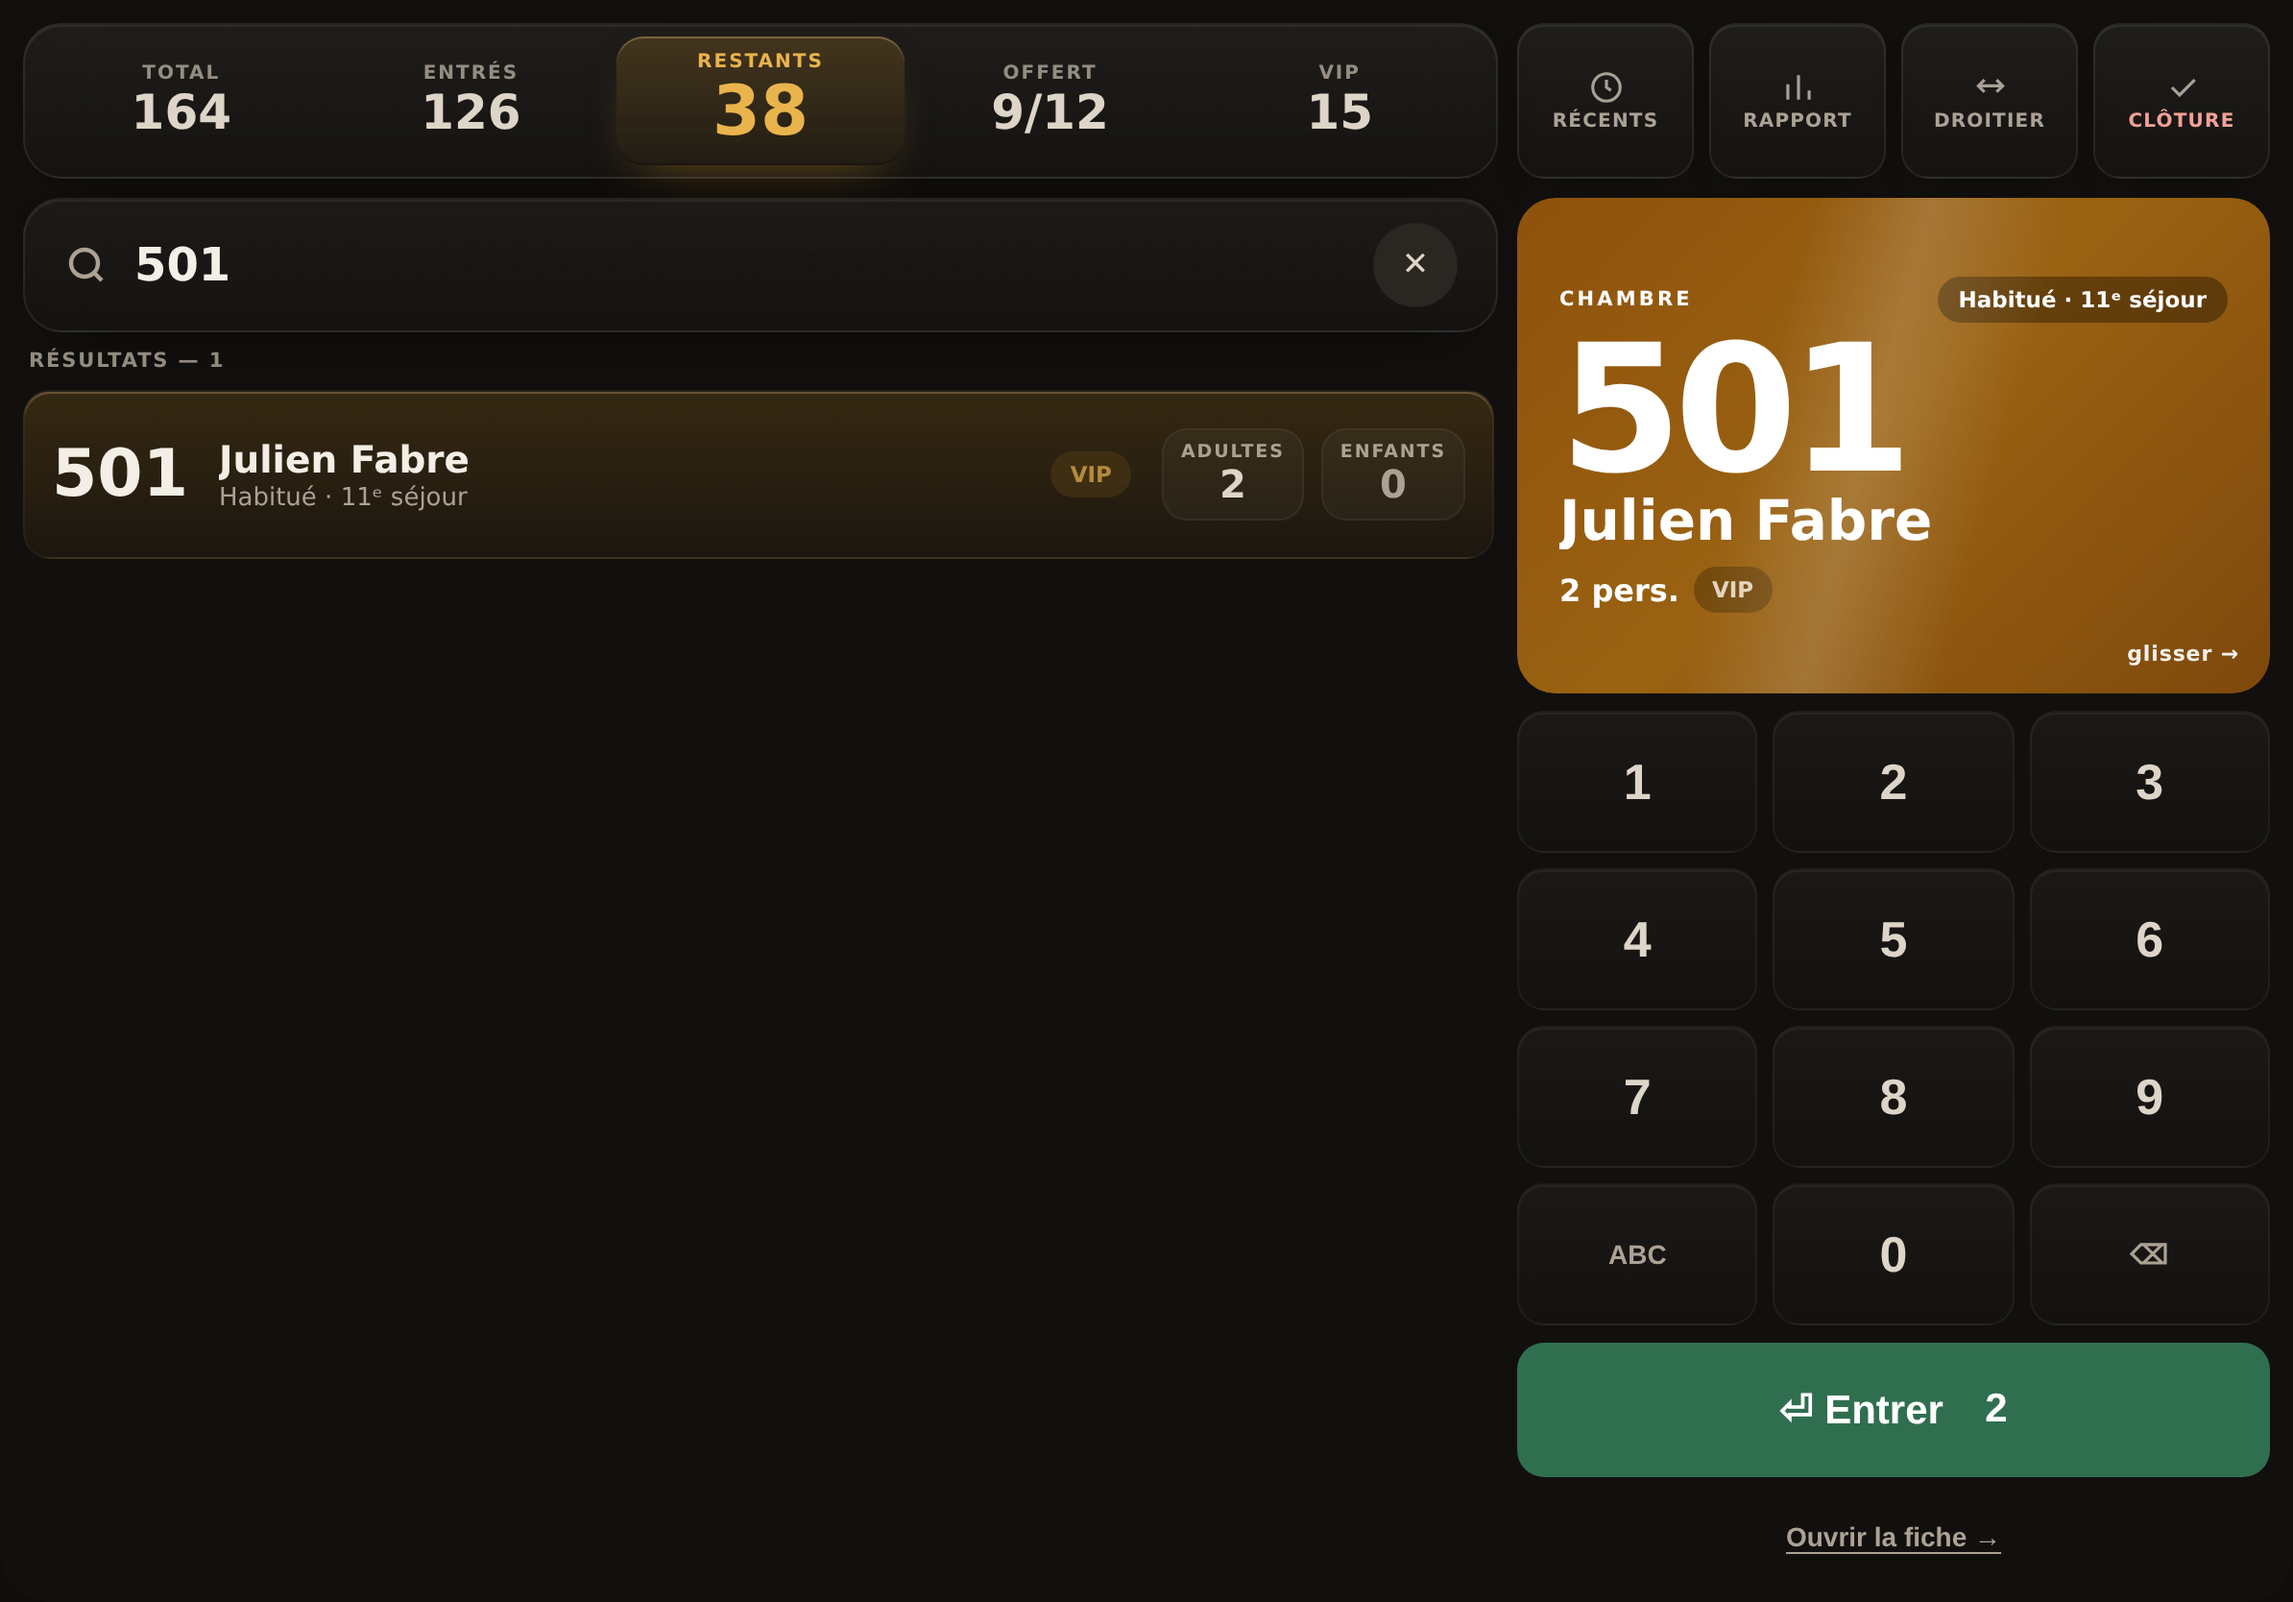
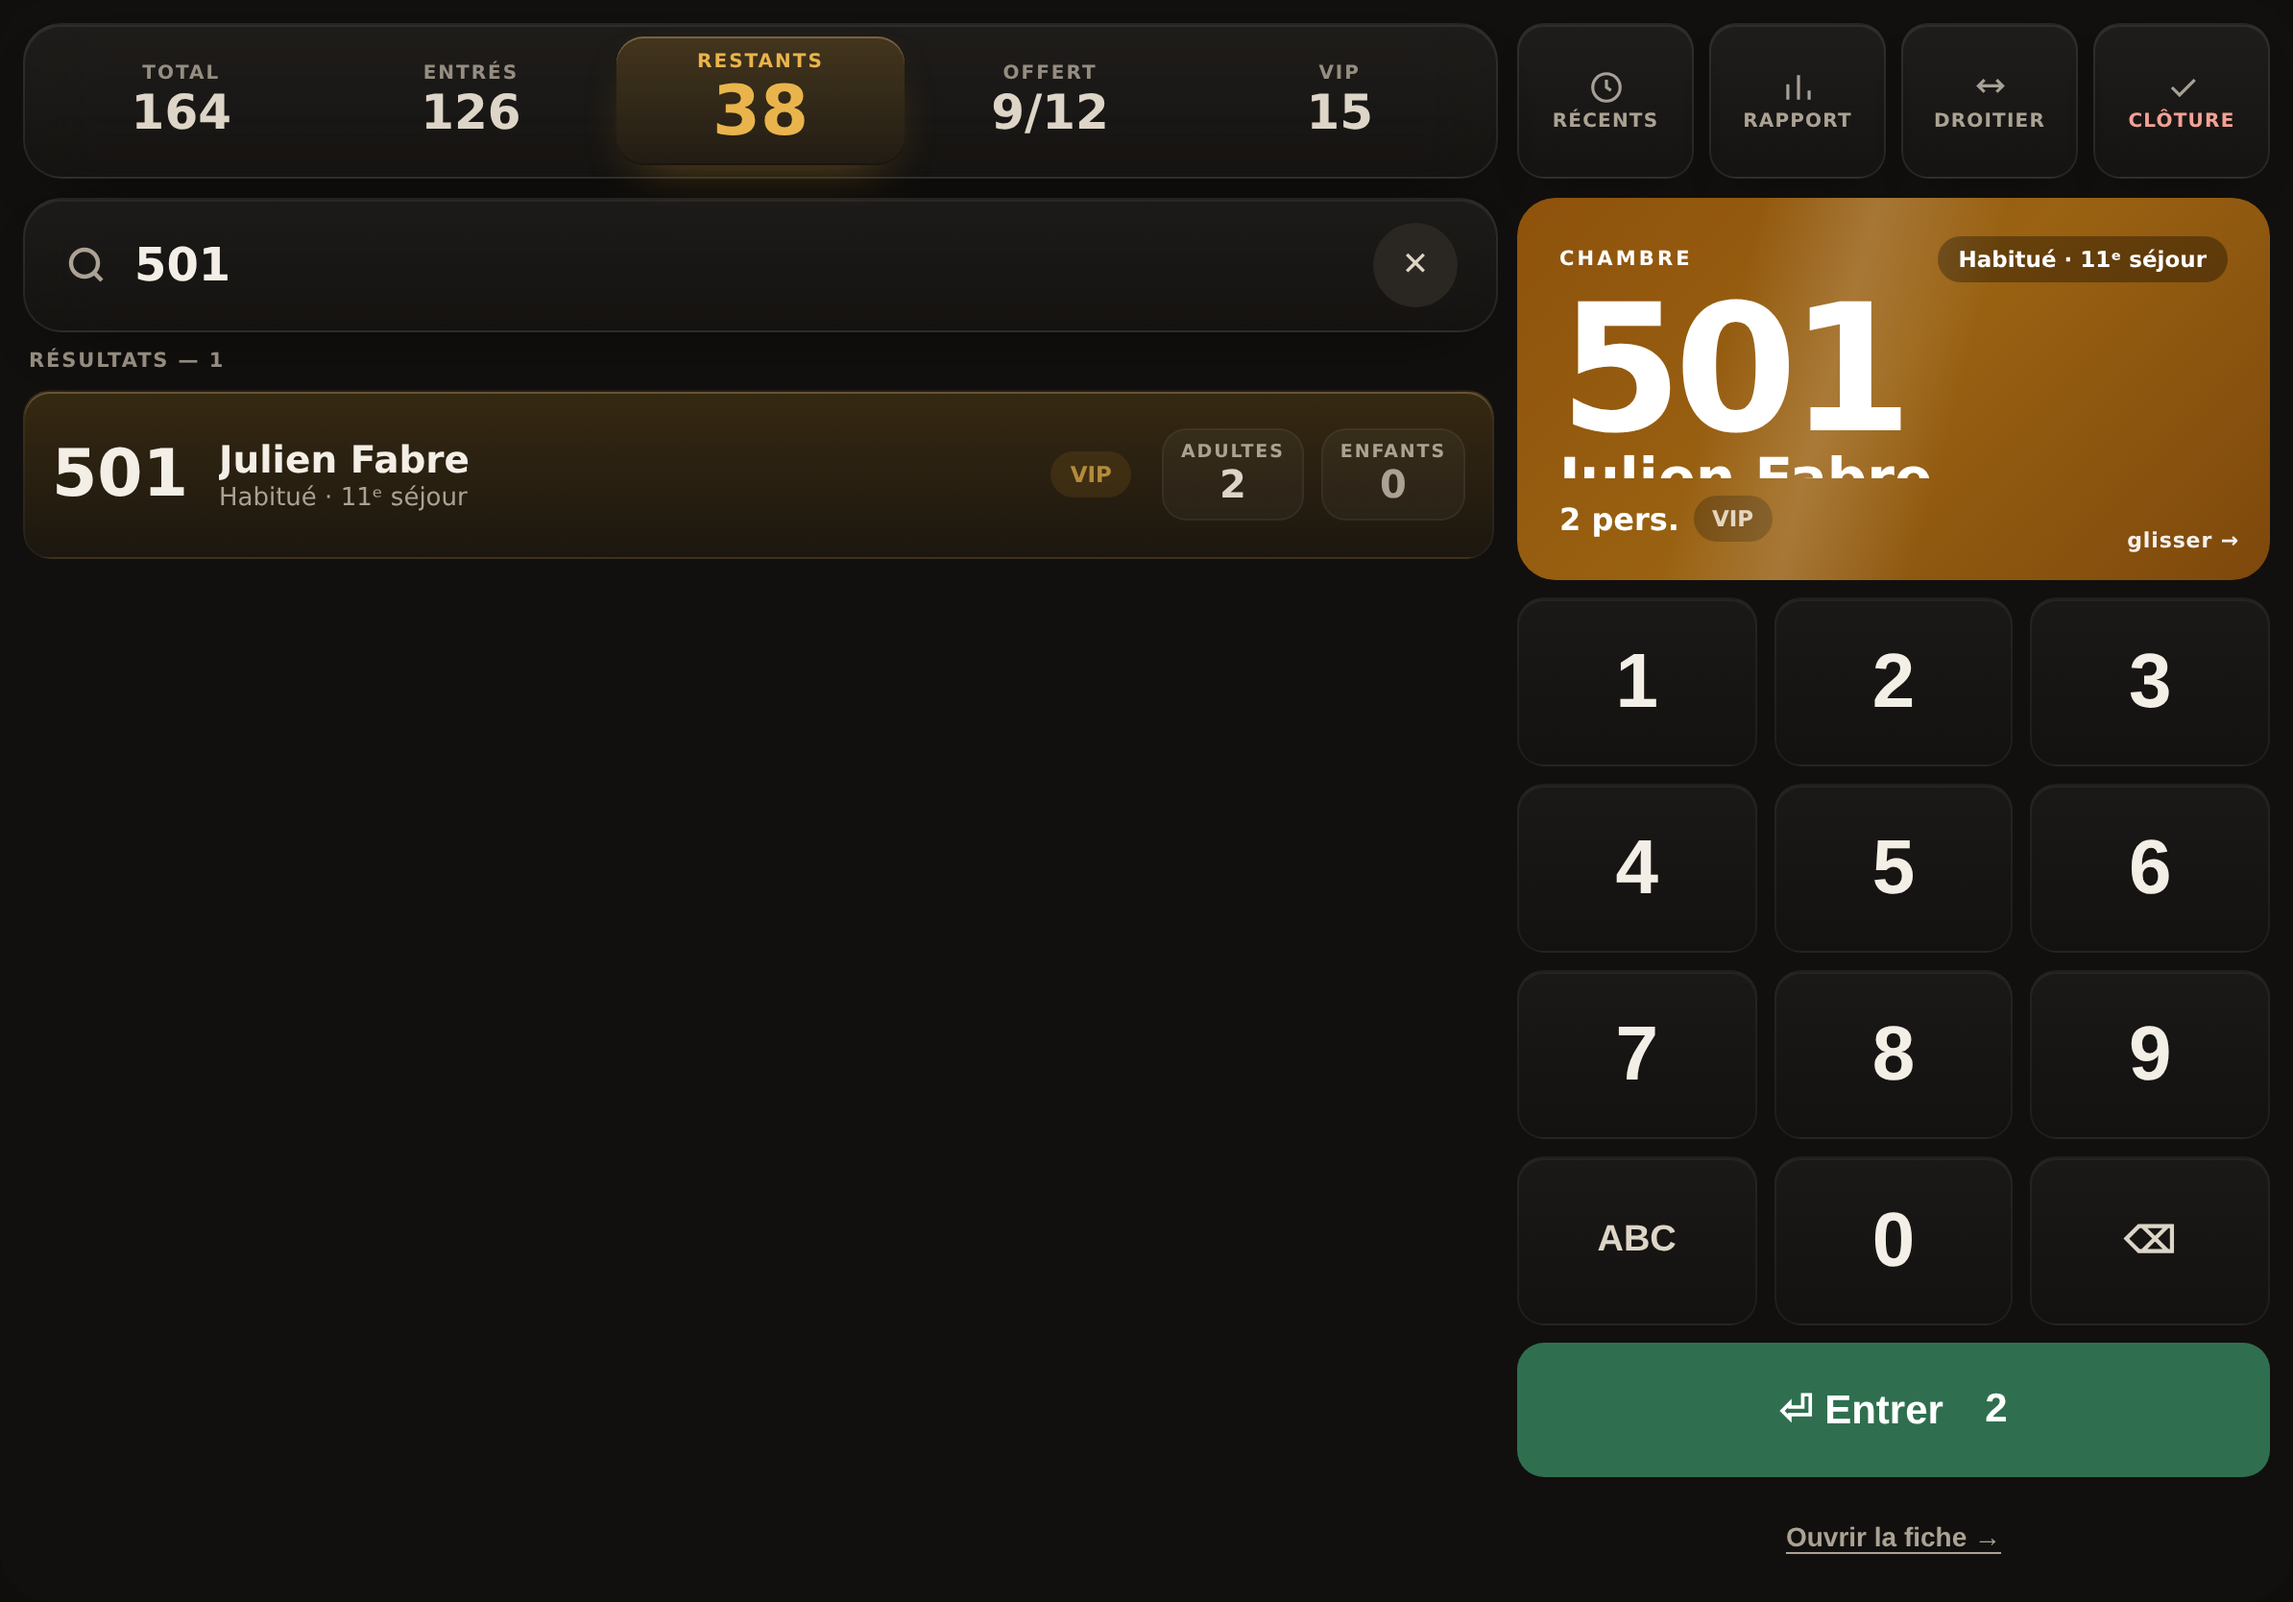
Search v2: bigger keypad glyphs — recede is not the same as shrink
The hierarchy pass dimmed the keypad AND shrank it, which conflated two
separate things. Size is about aiming; contrast is about competing for
attention. A pad you throw a thumb at without looking should be big and
quiet, not small and quiet.

Keys 74 to 88px, digits 26 to 40px at full ink. The container stays
recessive so it still does not fight the guest card for the eye. The
preview box keeps 252px, well above its 158px floor.

Claude-Session: https://claude.ai/code/session_01PvjN1yrwGssKpuvjG4vcfR

diff --git a/mockups/search-v2.html b/mockups/search-v2.html
@@ -300,14 +300,14 @@
   .secondary[disabled]{display:none}
   .enter{min-height:96px;font-size:24px}
 
-  .pad{display:grid;grid-template-columns:repeat(3,1fr);gap:8px}
-  .k{height:74px;border-radius:var(--r-md);color:var(--ink-2);font-size:26px;font-weight:600;
+  .pad{display:grid;grid-template-columns:repeat(3,1fr);gap:9px}
+  .k{height:88px;border-radius:var(--r-md);color:var(--ink);font-size:40px;font-weight:600;
     background:linear-gradient(180deg,rgba(255,255,255,.038),rgba(255,255,255,.012));
     border:1px solid rgba(255,255,255,.05);
     box-shadow:inset 0 1px 0 rgba(255,255,255,.05);
     cursor:pointer;display:grid;place-items:center;font-variant-numeric:tabular-nums}
   .k:active{background:var(--key-press)}
-  .k.alt{font-size:14px;font-weight:700;color:var(--muted)}
+  .k.alt{font-size:19px;font-weight:700;color:var(--ink-2)}
   .enter{min-height:70px;border:none;border-radius:var(--r-md);background:var(--good);
     color:#fff;font-size:21px;font-weight:800;cursor:pointer;display:flex;
     align-items:center;justify-content:center;gap:10px}
